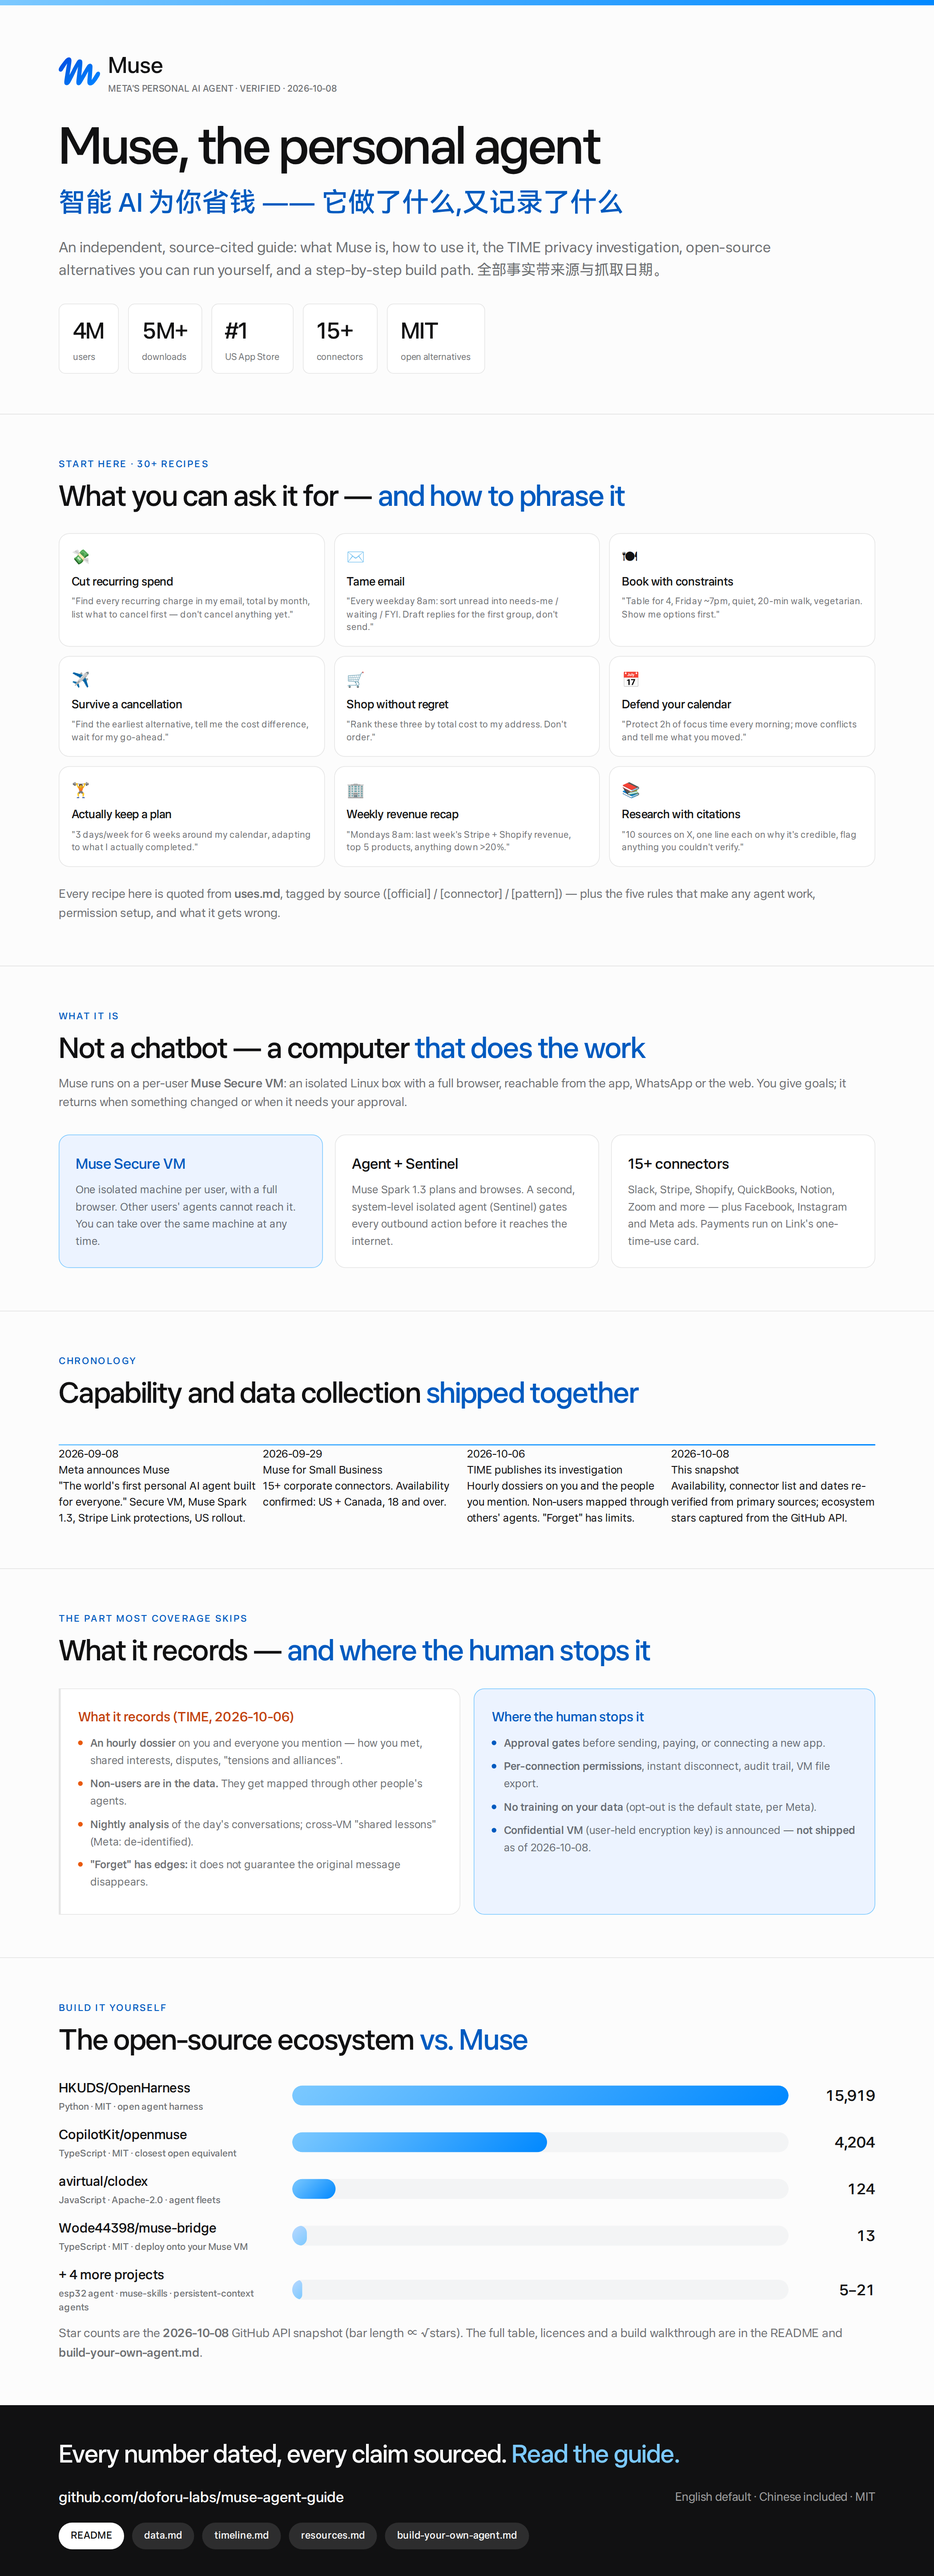
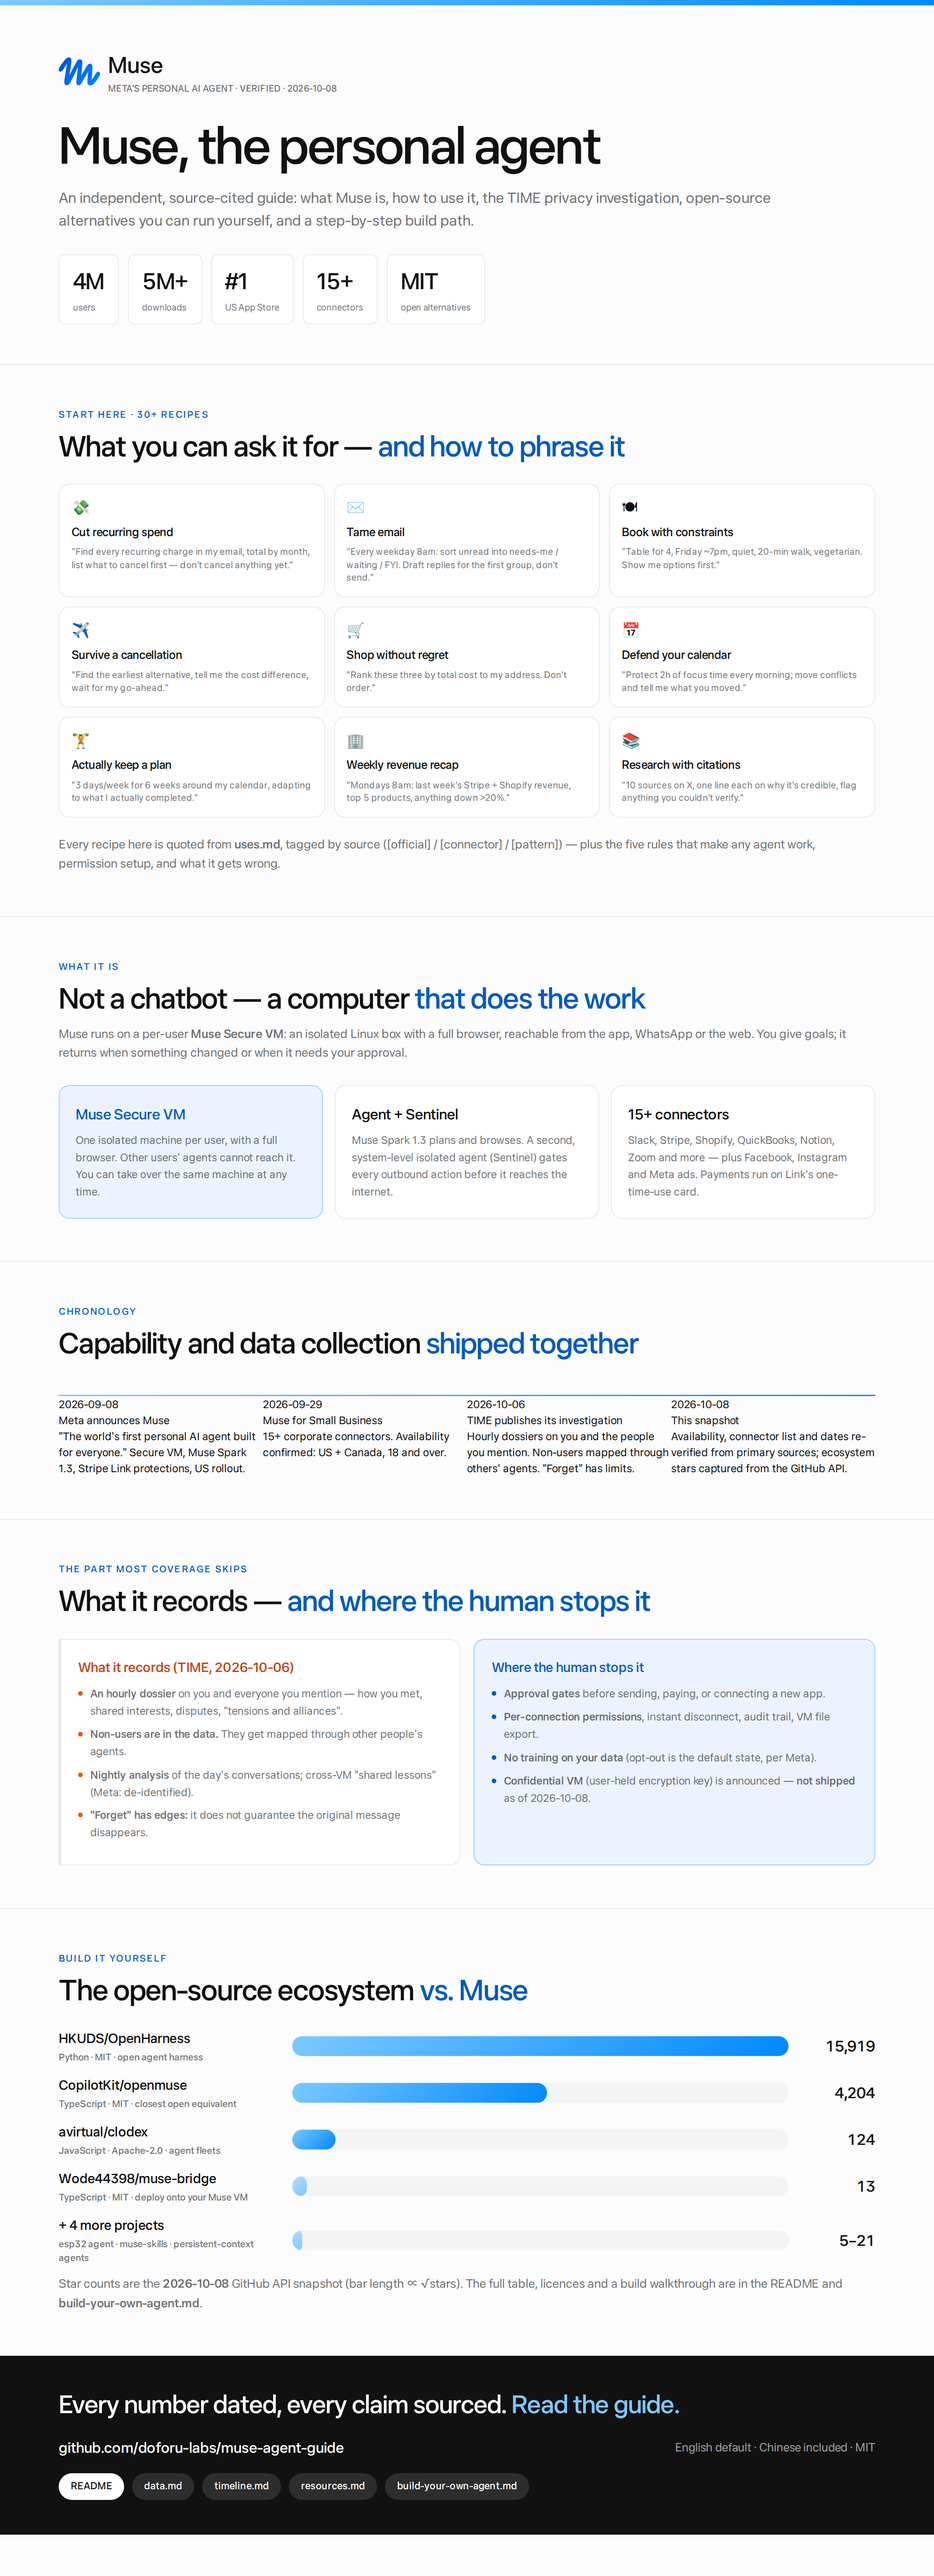
Fix: keep the English README hero free of CJK text
- overview-long.html: drop the Chinese tagline and the trailing Chinese
  sentence in the lede, so the English hero is English-only
- README.zh-CN.md: use the Chinese social card as its hero instead of the
  English long strip, so each README gets a same-language banner
- assets/README*.md: correct the documented size (2100x5790) and drop the
  'shared by both READMEs' claim; record the English-only rule
- re-render every graphic (all are generated from src/, so they stay diffable)

Changed region(s): [[0.0, 0.3731, 1.0, 1.0], [0.0619, 0.0622, 0.8048, 0.342], [0.8976, 0.8083, 0.9286, 0.8394]]

diff --git a/assets/src/overview-long.html b/assets/src/overview-long.html
@@ -91,8 +91,7 @@
       </div>
     </div>
     <h1>Muse, the personal agent</h1>
-    <div class="zh">智能 AI 为你省钱 —— 它做了什么,又记录了什么</div>
-    <div class="lede">An independent, source-cited guide: what Muse is, how to use it, the TIME privacy investigation, open-source alternatives you can run yourself, and a step-by-step build path. 全部事实带来源与抓取日期。</div>
+    <div class="lede">An independent, source-cited guide: what Muse is, how to use it, the TIME privacy investigation, open-source alternatives you can run yourself, and a step-by-step build path.</div>
     <div class="stats">
       <div class="chip"><b>4M</b><span>users</span></div>
       <div class="chip"><b>5M+</b><span>downloads</span></div>

diff --git a/assets/README.md b/assets/README.md
@@ -4,9 +4,9 @@ All four images are generated from HTML in [`src/`](src/), so they are reproduci
 
 | Image | Size (2×) | Used for | Built from |
 |---|---|---|---|
-| [`overview-long.png`](overview-long.png) | 1400×3040 @1.5× → 2100×4560 | **the README hero**: one tall strip carrying the whole story (both READMEs) | `src/overview-long.html` |
+| [`overview-long.png`](overview-long.png) | 1400×3860 @1.5× → 2100×5790 | **the English README hero**: one tall strip carrying the whole story. English only — the English hero must never contain CJK text | `src/overview-long.html` |
 | [`social-card.png`](social-card.png) | 1280×640 | GitHub social-preview card (repo → Settings → Social preview) | `src/social-card.html` |
-| [`social-card.zh.png`](social-card.zh.png) | 1280×640 | Chinese card, standalone | `src/social-card.zh.html` |
+| [`social-card.zh.png`](social-card.zh.png) | 1280×640 | Chinese card — hero of `README.zh-CN.md` | `src/social-card.zh.html` |
 | [`font-compare.png`](font-compare.png) | 1280×700 | the same headline in the local CJK fonts, for picking one | `src/font-compare.html` |
 | [`font-compare-en.png`](font-compare-en.png) | 1280×760 | the official Latin face vs its fallbacks | `src/font-compare-en.html` |
 | [`ecosystem.png`](ecosystem.png) | 1400×820 | star-count comparison in the README | `src/ecosystem.html` |

diff --git a/assets/README.zh-CN.md b/assets/README.zh-CN.md
@@ -4,9 +4,9 @@
 
 | 图片 | 尺寸(2×) | 用途 | 源文件 |
 |---|---|---|---|
-| [`overview-long.png`](overview-long.png) | 1400×3040 @1.5× → 2100×4560 | **README 头图长条图**:一张图讲完整个故事(中英 README 共用) | `src/overview-long.html` |
+| [`overview-long.png`](overview-long.png) | 1400×3860 @1.5× → 2100×5790 | **英文 README 头图**:一张图讲完整个故事。**纯英文** —— 英文头图里不得出现中文 | `src/overview-long.html` |
 | [`social-card.png`](social-card.png) | 1280×640 | GitHub 社交预览卡(仓库 → Settings → Social preview) | `src/social-card.html` |
-| [`social-card.zh.png`](social-card.zh.png) | 1280×640 | 中文卡片,可单独使用 | `src/social-card.zh.html` |
+| [`social-card.zh.png`](social-card.zh.png) | 1280×640 | 中文卡片 —— 用作 `README.zh-CN.md` 头图 | `src/social-card.zh.html` |
 | [`font-compare.png`](font-compare.png) | 1280×700 | 同一句在几款中文字体下的对比,用于选型 | `src/font-compare.html` |
 | [`font-compare-en.png`](font-compare-en.png) | 1280×760 | 官方拉丁字体 vs 各回退字体 | `src/font-compare-en.html` |
 | [`ecosystem.png`](ecosystem.png) | 1400×820 | README 里的星数对比 | `src/ecosystem.html` |

diff --git a/README.zh-CN.md b/README.zh-CN.md
@@ -5,7 +5,7 @@
 
 **English version → [README.md](README.md)**
 
-![Muse —— 它做了什么、记录了什么、以及如何自建](assets/overview-long.png)
+![Muse, 智能 AI 为你省钱](assets/social-card.zh.png)
 
 ---
 
